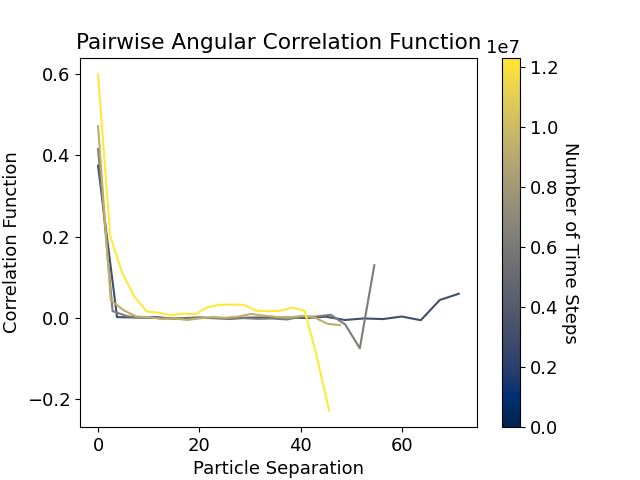
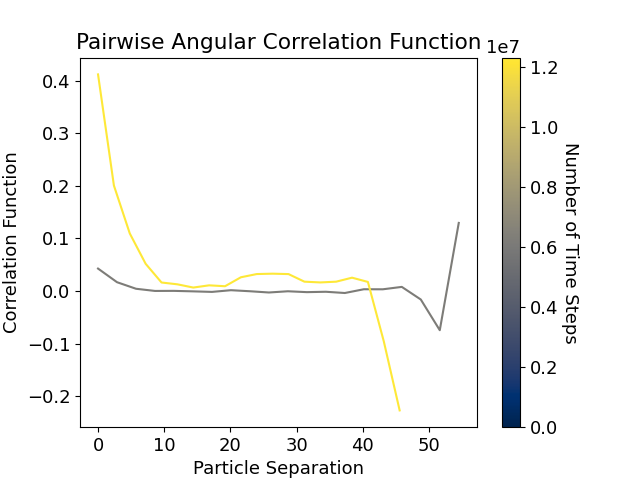
optimised correlation for symmetric matrix

diff --git a/Phase_Structure/Nunchucks/Fixed_Rigidity/correlation.plot.py b/Phase_Structure/Nunchucks/Fixed_Rigidity/correlation.plot.py
@@ -6,7 +6,7 @@ from scipy.ndimage import uniform_filter1d  # for rolling average
 from phase_plot import vol_frac
 
 FILE_ROOT = "output_T_0.5_time_"  # two underscores to match typo in previous code
-SAMPLING_FREQ = 100  # only samples one in X files (must be integer)
+SAMPLING_FREQ = 200  # only samples one in X files (must be integer)
 SEPARATION_BIN_NUM = 20  # number of bins for radius dependance pair-wise correlation
 
 plt.rcParams.update({"font.size": 13})  # for figures to go into latex at halfwidth
@@ -98,19 +98,23 @@ def eval_angle_array(data):
     Outputs N x N x 2 array, for pairwise values of separation and angle
     Be aware this may generate very large arrays
     """
-    angle_array = np.zeros((N_molecules, N_molecules, 2), dtype=np.float32)
+    angle_array = np.full((N_molecules, N_molecules, 2), np.nan, dtype=np.float32)
     # dtype specified to reduce storgae required
 
     director = data[:, 2, :] - data[:, 0, :]  # director vector for whole of molecule
 
-    for i in range(N_molecules):
-        for j in range(N_molecules):
+    for i in range(N_molecules - 1):
+        for j in range(
+            i + 1, N_molecules
+        ):  # only consider terms of symmetric matrix above diagonal
             # Separation between centres of each molecule:
             angle_array[i, j, 0] = np.linalg.norm(data[i, 1, :] - data[j, 1, :])
             # Angle between arms of molecule:
             angle_array[i, j, 1] = find_angle(director[i, :], director[j, :])
-
-    return angle_array
+    angle_array2 = np.ma.masked_invalid(
+        angle_array[:, :, :]
+    )  # mask empty values below diagonal
+    return angle_array2
 
 
 def correlation_func(data):
@@ -130,6 +134,7 @@ def correlation_func(data):
             ),
             angle_array[:, :, 1],  # act on angle data
         )
+
         legendre_polynomials = np.polynomial.legendre.legval(
             relevant_angles[:, :], [0, 0, 1]
         )
